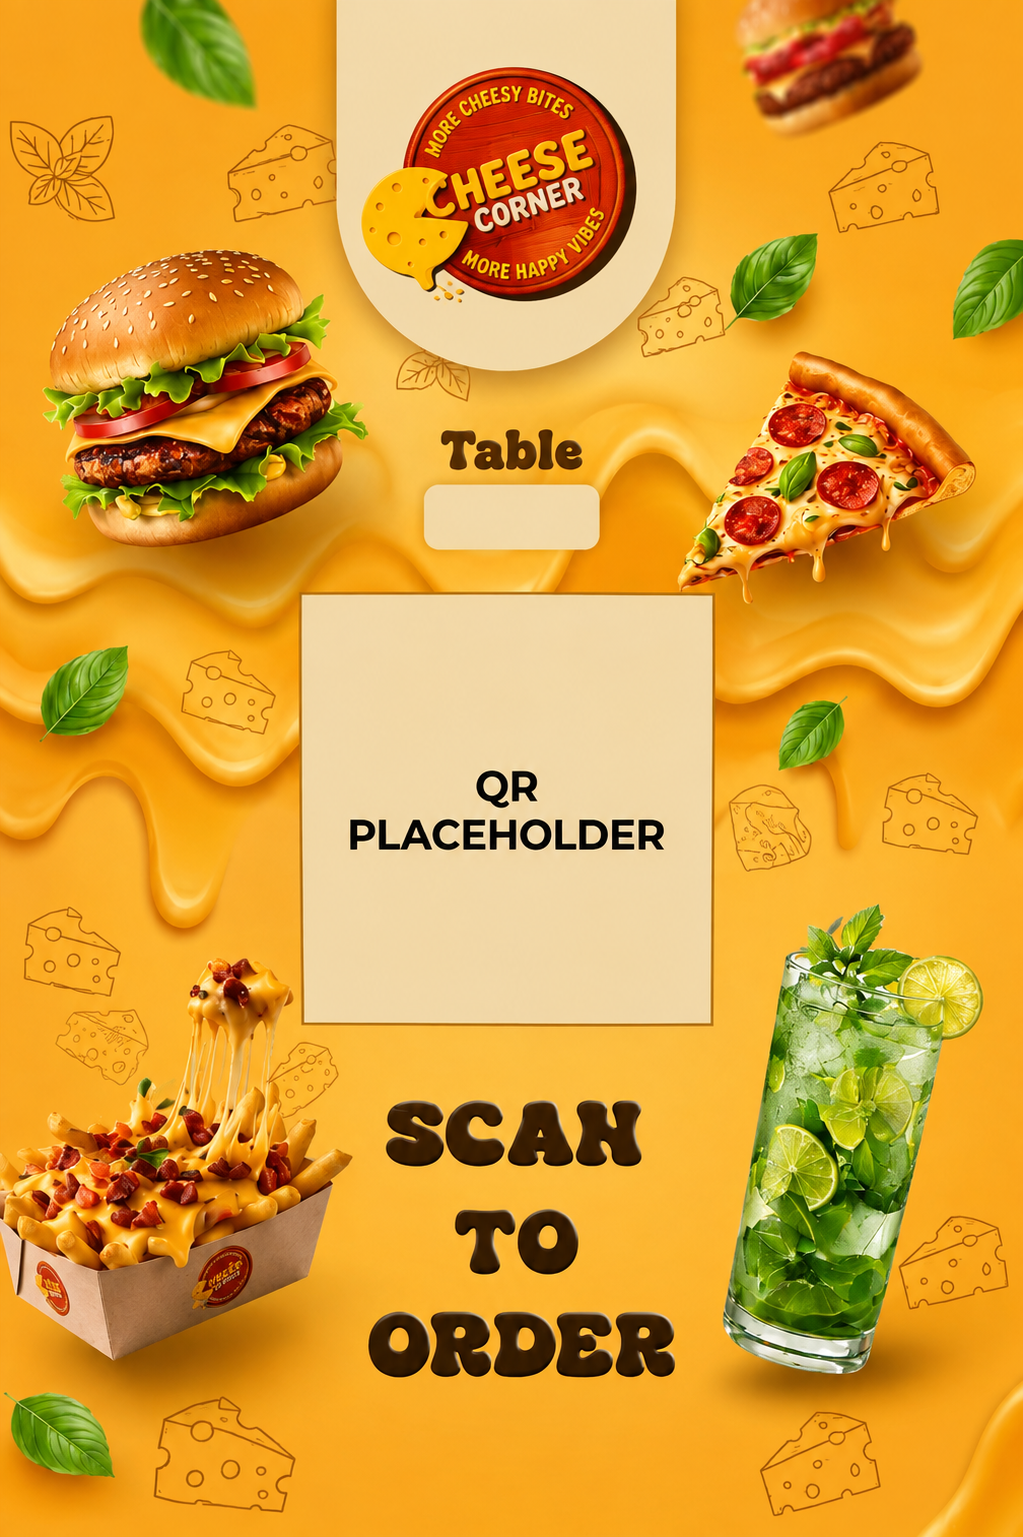
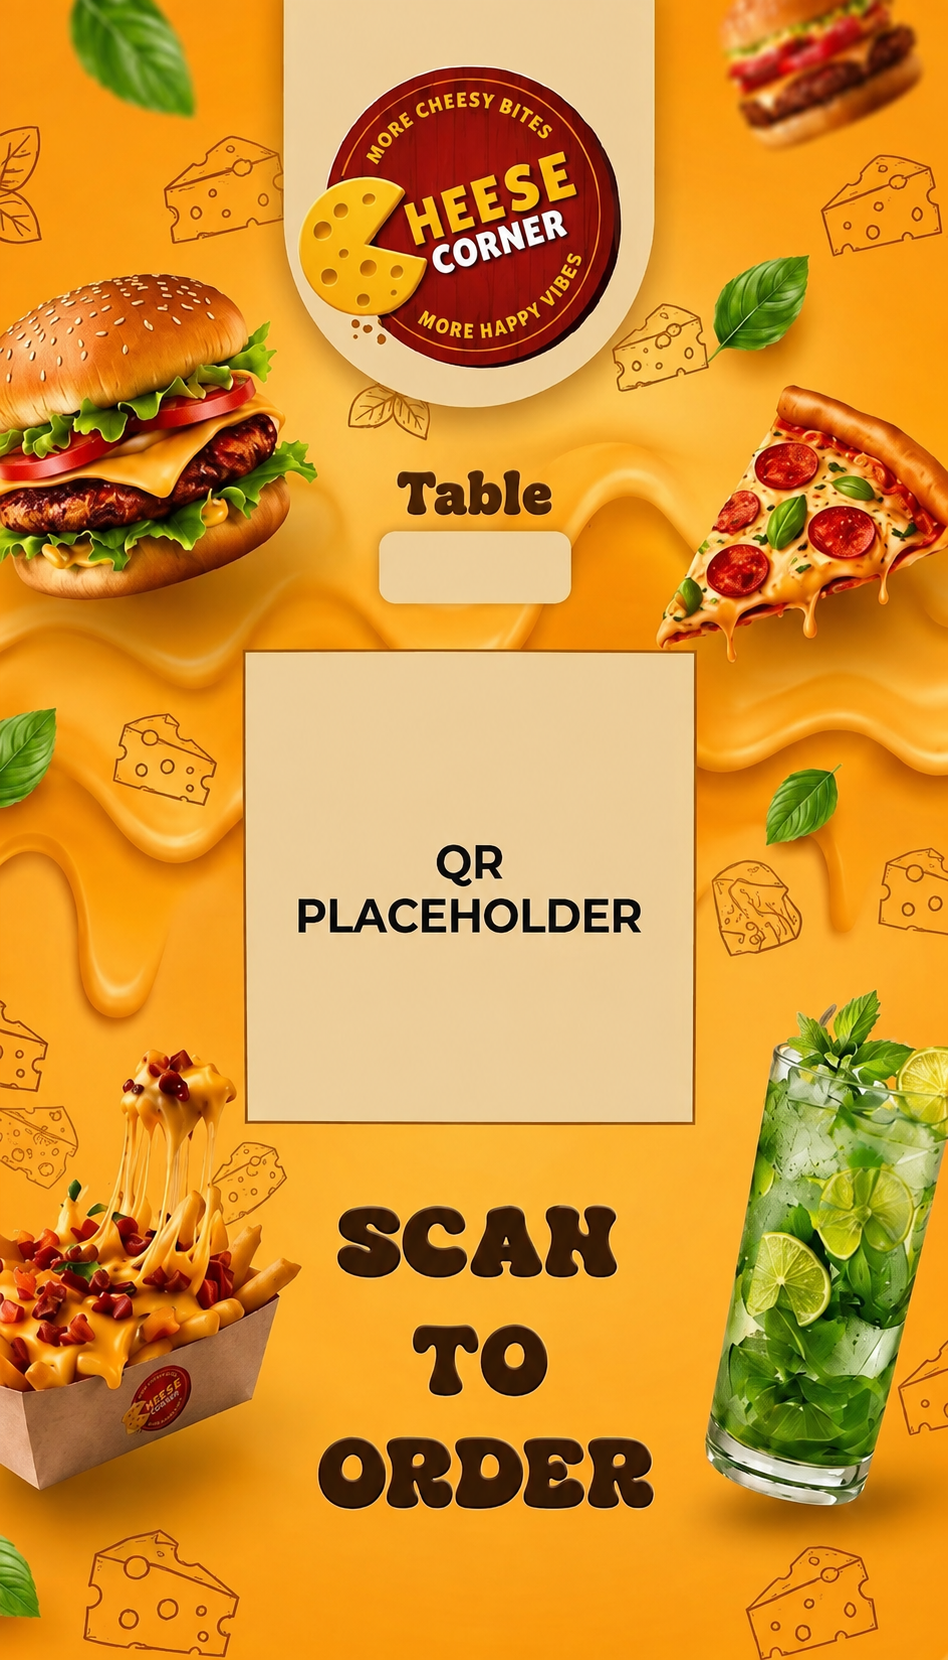
feat(branding): implement dynamic QR artwork renderer system (Sprint 12A & 12B)

diff --git a/src/branding/cheesecorner/qrRenderer.ts b/src/branding/cheesecorner/qrRenderer.ts
@@ -1,0 +1,188 @@
+import { CHEESE_CORNER_CONFIG } from "./config";
+
+/**
+ * Centralized Layout Configuration for Cheese Corner Dynamic QR Artwork
+ * Template: Native Resolution (948x1660) blank artwork source
+ */
+export const ARTWORK_LAYOUT = {
+  template: {
+    width: 948,
+    height: 1660,
+    url: CHEESE_CORNER_CONFIG.qrArtworkTemplate || "/branding/cheesecorner/qr/qr-stand.png",
+  },
+
+  // Table Number Rounded Pill Region (under "Table" heading)
+  tableNumber: {
+    centerX: 499, // Centered horizontally inside template white pill (433..565)
+    centerY: 241, // Centered vertically inside template white pill (211..271)
+    color: "#321300",
+    font: "900 54px 'Outfit', 'Fredoka', 'Quicksand', 'Nunito', 'Comfortaa', sans-serif",
+    fontFamily: "'Outfit', 'Fredoka', 'Quicksand', 'Nunito', 'Comfortaa', sans-serif",
+    baseFontSize: 54,
+  },
+
+  // QR Placement Region inside Cream Container Box
+  qr: {
+    centerX: 469, // Centered horizontally inside template cream container (246..692)
+    centerY: 680, // Centered vertically in available space between top graphic & "Scan To Order" (514..845)
+    cardSize: 320, // White card size filling placeholder with even cream border
+    qrSize: 264, // QR code size preserving even 28px white padding on all sides
+    borderRadius: 20, // Rounded corners matching artwork style
+    cardShadowColor: "rgba(50, 19, 0, 0.12)",
+    cardShadowBlur: 24,
+    cardShadowOffsetY: 6,
+  },
+};
+
+/**
+ * Extracts only the numeric portion of a table label.
+ * Examples:
+ * - "Table 1" -> "1"
+ * - "Table 5" -> "5"
+ * - "Table 10" -> "10"
+ * - "T-25" -> "25"
+ */
+export function extractTableNumber(label: string): string {
+  const digits = label.replace(/\D+/g, "");
+  return digits || label;
+}
+
+/**
+ * Generates a dynamic high-resolution QR artwork PNG for a table.
+ *
+ * Execution Order (Sprint 12B):
+ * 1. Load blank template (`public/branding/cheesecorner/qr/qr-stand.png`)
+ * 2. Draw template at native resolution (948x1660)
+ * 3. Draw numeric table number (centered inside existing rounded rectangle)
+ * 4. Draw QR code (from table UUID, centered inside white card with even cream border & white padding)
+ * 5. Export high-res PNG
+ *
+ * Never modifies the template source file itself.
+ */
+export async function generateArtwork(
+  tableLabel: string,
+  qrCanvas: HTMLCanvasElement,
+  templateUrl: string = ARTWORK_LAYOUT.template.url
+): Promise<string> {
+  return new Promise((resolve) => {
+    const canvas = document.createElement("canvas");
+    const ctx = canvas.getContext("2d");
+
+    if (!ctx) {
+      resolve("");
+      return;
+    }
+
+    const templateImg = new Image();
+    templateImg.crossOrigin = "anonymous";
+
+    templateImg.onload = () => {
+      // 1. Native Dimensions (948x1660)
+      const nativeWidth = templateImg.naturalWidth || templateImg.width || ARTWORK_LAYOUT.template.width;
+      const nativeHeight = templateImg.naturalHeight || templateImg.height || ARTWORK_LAYOUT.template.height;
+
+      canvas.width = nativeWidth;
+      canvas.height = nativeHeight;
+
+      // 2. Draw Blank Artwork Template
+      ctx.drawImage(templateImg, 0, 0, nativeWidth, nativeHeight);
+
+      // 3. Render Numeric Table Number (Sprint 12B Task 2: Extract numeric portion)
+      const numericOnly = extractTableNumber(tableLabel);
+
+      // Auto scale font size for larger numbers
+      let fontSize = ARTWORK_LAYOUT.tableNumber.baseFontSize;
+      if (numericOnly.length === 3) {
+        fontSize = 42;
+      } else if (numericOnly.length >= 4) {
+        fontSize = 34;
+      }
+
+      ctx.textAlign = "center";
+      ctx.textBaseline = "middle";
+      ctx.fillStyle = ARTWORK_LAYOUT.tableNumber.color;
+      ctx.font = `900 ${fontSize}px ${ARTWORK_LAYOUT.tableNumber.fontFamily}`;
+      ctx.fillText(
+        numericOnly,
+        ARTWORK_LAYOUT.tableNumber.centerX,
+        ARTWORK_LAYOUT.tableNumber.centerY
+      );
+
+      // 4. Render White QR Backing Card & QR Code (Sprint 12B Task 4: Centered, even borders/padding)
+      const {
+        centerX,
+        centerY,
+        cardSize,
+        borderRadius,
+        qrSize,
+        cardShadowColor,
+        cardShadowBlur,
+        cardShadowOffsetY,
+      } = ARTWORK_LAYOUT.qr;
+
+      const cardX = centerX - cardSize / 2;
+      const cardY = centerY - cardSize / 2;
+
+      // Draw rounded white card
+      ctx.beginPath();
+      ctx.moveTo(cardX + borderRadius, cardY);
+      ctx.lineTo(cardX + cardSize - borderRadius, cardY);
+      ctx.quadraticCurveTo(cardX + cardSize, cardY, cardX + cardSize, cardY + borderRadius);
+      ctx.lineTo(cardX + cardSize, cardY + cardSize - borderRadius);
+      ctx.quadraticCurveTo(cardX + cardSize, cardY + cardSize, cardX + cardSize - borderRadius, cardY + cardSize);
+      ctx.lineTo(cardX + borderRadius, cardY + cardSize);
+      ctx.quadraticCurveTo(cardX, cardY + cardSize, cardX, cardY + cardSize - borderRadius);
+      ctx.lineTo(cardX, cardY + borderRadius);
+      ctx.quadraticCurveTo(cardX, cardY, cardX + borderRadius, cardY);
+      ctx.closePath();
+
+      ctx.fillStyle = "#FFFFFF";
+      ctx.shadowColor = cardShadowColor;
+      ctx.shadowBlur = cardShadowBlur;
+      ctx.shadowOffsetY = cardShadowOffsetY;
+      ctx.fill();
+
+      // Reset shadow for QR image
+      ctx.shadowColor = "transparent";
+      ctx.shadowBlur = 0;
+      ctx.shadowOffsetY = 0;
+
+      // Draw QR image centered inside card
+      const qrX = centerX - qrSize / 2;
+      const qrY = centerY - qrSize / 2;
+      ctx.drawImage(qrCanvas, qrX, qrY, qrSize, qrSize);
+
+      // 5. Export High-Res PNG
+      resolve(canvas.toDataURL("image/png"));
+    };
+
+    templateImg.onerror = (err) => {
+      console.error("Failed to load QR artwork template:", err);
+      // Fallback rendering if template image fails to load
+      canvas.width = ARTWORK_LAYOUT.template.width;
+      canvas.height = ARTWORK_LAYOUT.template.height;
+      ctx.fillStyle = "#FAF8F6";
+      ctx.fillRect(0, 0, canvas.width, canvas.height);
+      ctx.textAlign = "center";
+      ctx.fillStyle = "#1A1210";
+      ctx.font = "bold 36px sans-serif";
+      ctx.fillText(`TABLE ${tableLabel}`, canvas.width / 2, 240);
+      ctx.drawImage(qrCanvas, (canvas.width - 320) / 2, 520, 320, 320);
+      resolve(canvas.toDataURL("image/png"));
+    };
+
+    try {
+      templateImg.src = templateUrl;
+    } catch (e) {
+      console.error("Failed to assign template image src:", e);
+      templateImg.onerror(e as any);
+    }
+  });
+}
+
+// Backwards compatibility alias for existing function calls
+export const generateQRArtwork = (
+  tableLabel: string,
+  _cafeName: string,
+  qrCanvas: HTMLCanvasElement
+) => generateArtwork(tableLabel, qrCanvas);

diff --git a/src/pages/owner/OwnerTablesPage.tsx b/src/pages/owner/OwnerTablesPage.tsx
@@ -11,126 +11,11 @@ import { getTableStatus } from "@/lib/tables/occupancy";
 import { cn } from "@/lib/utils";
 import { sortTablesNatural } from "@/lib/tables/naturalTableSort";
 
-import { CHEESE_CORNER_CONFIG } from "@/branding/cheesecorner/config";
+import { generateArtwork } from "@/branding/cheesecorner/qrRenderer";
 
 const QR_SIZE = 144;
 const QR_PADDING = 12;
 
-// Layout Regions for Native-Res (1023x1537) Branded QR Artwork Compositing (Sprint 11O)
-const TEMPLATE_LAYOUT = {
-  templateUrl: CHEESE_CORNER_CONFIG.qrArtworkTemplate || "/branding/cheesecorner/qr/qr-stand.png",
-
-  // Reserved Table Number Rounded White Rectangle (under "Table" heading)
-  tableArea: {
-    x: 511, // Horizontally centered (1023 / 2)
-    y: 513, // Optically centered vertically inside white rectangle
-    font: "900 54px 'Outfit', 'Fredoka', 'Quicksand', 'Nunito', 'Comfortaa', sans-serif", // Heavy, rounded typography matching artwork (Task 5)
-    color: "#321300",
-  },
-
-  // QR Placement Region inside Cream Container Box
-  qrArea: {
-    cardX: (1023 - 402) / 2, // 310.5px (Enlarged white card naturally filling cream placeholder - Task 3)
-    cardY: 628,               // Lowered card downward for visually equal top/bottom cream borders (Task 1)
-    cardSize: 402,
-    borderRadius: 22,        // Rounded corners matching artwork template
-    qrX: (1023 - 335) / 2,   // 344px (Scaled QR size proportionally to 335px - Task 4)
-    qrY: 661,                 // Lowered QR downward inside card for equal white padding (Task 2)
-    qrSize: 335,
-  },
-};
-
-export const generateQRArtwork = async (
-  tableLabel: string,
-  cafeName: string,
-  qrCanvas: HTMLCanvasElement
-): Promise<string> => {
-  return new Promise((resolve) => {
-    const canvas = document.createElement("canvas");
-    const ctx = canvas.getContext("2d");
-
-    const templateImg = new Image();
-    templateImg.crossOrigin = "anonymous";
-    templateImg.onload = () => {
-      // 1. Draw Artwork Template at Native Dimensions (1023x1537)
-      const nativeWidth = templateImg.naturalWidth || templateImg.width || 1023;
-      const nativeHeight = templateImg.naturalHeight || templateImg.height || 1537;
-      canvas.width = nativeWidth;
-      canvas.height = nativeHeight;
-
-      if (!ctx) {
-        resolve("");
-        return;
-      }
-
-      ctx.drawImage(templateImg, 0, 0, nativeWidth, nativeHeight);
-
-      // 2. Draw White QR Backing Card (Task 1, 3)
-      const { cardX, cardY, cardSize, borderRadius: r, qrX, qrY, qrSize } = TEMPLATE_LAYOUT.qrArea;
-
-      ctx.beginPath();
-      ctx.moveTo(cardX + r, cardY);
-      ctx.lineTo(cardX + cardSize - r, cardY);
-      ctx.quadraticCurveTo(cardX + cardSize, cardY, cardX + cardSize, cardY + r);
-      ctx.lineTo(cardX + cardSize, cardY + cardSize - r);
-      ctx.quadraticCurveTo(cardX + cardSize, cardY + cardSize, cardX + cardSize - r, cardY + cardSize);
-      ctx.lineTo(cardX + r, cardY + cardSize);
-      ctx.quadraticCurveTo(cardX, cardY + cardSize, cardX, cardY + cardSize - r);
-      ctx.lineTo(cardX, cardY + r);
-      ctx.quadraticCurveTo(cardX, cardY, cardX + r, cardY);
-      ctx.closePath();
-
-      ctx.fillStyle = "#FFFFFF";
-      ctx.shadowColor = "rgba(50, 19, 0, 0.12)";
-      ctx.shadowBlur = 24;
-      ctx.shadowOffsetY = 6;
-      ctx.fill();
-
-      ctx.shadowColor = "transparent";
-      ctx.shadowBlur = 0;
-
-      // 3. Draw Dynamic QR Code Image (Task 2, 4 - Optically centered with equal white padding)
-      ctx.drawImage(qrCanvas, qrX, qrY, qrSize, qrSize);
-
-      // 4. Render Numeric Table Number (Task 5 - Heavy rounded font matching artwork)
-      const numericOnly = tableLabel.replace(/^[^\d]*/, "") || tableLabel;
-      const fontSize = numericOnly.length > 2 ? 42 : 54;
-
-      ctx.textAlign = "center";
-      ctx.textBaseline = "middle";
-      ctx.fillStyle = TEMPLATE_LAYOUT.tableArea.color;
-      ctx.font = `900 ${fontSize}px 'Outfit', 'Fredoka', 'Quicksand', 'Nunito', 'Comfortaa', sans-serif`;
-      ctx.fillText(
-        numericOnly,
-        TEMPLATE_LAYOUT.tableArea.x,
-        TEMPLATE_LAYOUT.tableArea.y
-      );
-
-      // 5. Export High-Res PNG
-      resolve(canvas.toDataURL("image/png"));
-    };
-
-    templateImg.onerror = () => {
-      // Fallback drawing if template image fails to load
-      ctx.fillStyle = "#FAF8F6";
-      ctx.fillRect(0, 0, canvas.width, canvas.height);
-      ctx.textAlign = "center";
-      ctx.fillStyle = "#1A1210";
-      ctx.font = "bold 32px sans-serif";
-      ctx.fillText(cafeName, canvas.width / 2, 120);
-      ctx.fillText(`TABLE ${tableLabel}`, canvas.width / 2, 220);
-      ctx.drawImage(qrCanvas, (canvas.width - 300) / 2, 300, 300, 300);
-      resolve(canvas.toDataURL("image/png"));
-    };
-
-    try {
-      templateImg.src = TEMPLATE_LAYOUT.templateUrl;
-    } catch (e) {
-      console.error("Failed to load QR artwork template:", e);
-      templateImg.onerror(e as any);
-    }
-  });
-};
 
 function TableQRCard({ 
   table, 
@@ -309,7 +194,7 @@ export default function OwnerTablesPage() {
     const url = `${window.location.origin}/t/${t.id}`;
     await QRCode.toCanvas(canvas, url, { margin: 1, width: 400 });
     toast.info(`Generating artwork for Table ${t.label}...`);
-    const dataUrl = await generateQRArtwork(t.label, cafe?.name ?? "Cafe", canvas);
+    const dataUrl = await generateArtwork(t.label, canvas);
     const link = document.createElement("a");
     link.download = `table-${t.label}-artwork.png`;
     link.href = dataUrl;
@@ -335,7 +220,7 @@ export default function OwnerTablesPage() {
         const url = `${window.location.origin}/t/${t.id}`;
         
         await QRCode.toCanvas(canvas, url, { margin: 1, width: 400 });
-        const artworkDataUrl = await generateQRArtwork(t.label, cafe?.name ?? "Cafe", canvas);
+        const artworkDataUrl = await generateArtwork(t.label, canvas);
         
         const base64Data = artworkDataUrl.split(",")[1];
         zip.file(`table-${t.label}-artwork.png`, base64Data, { base64: true });
